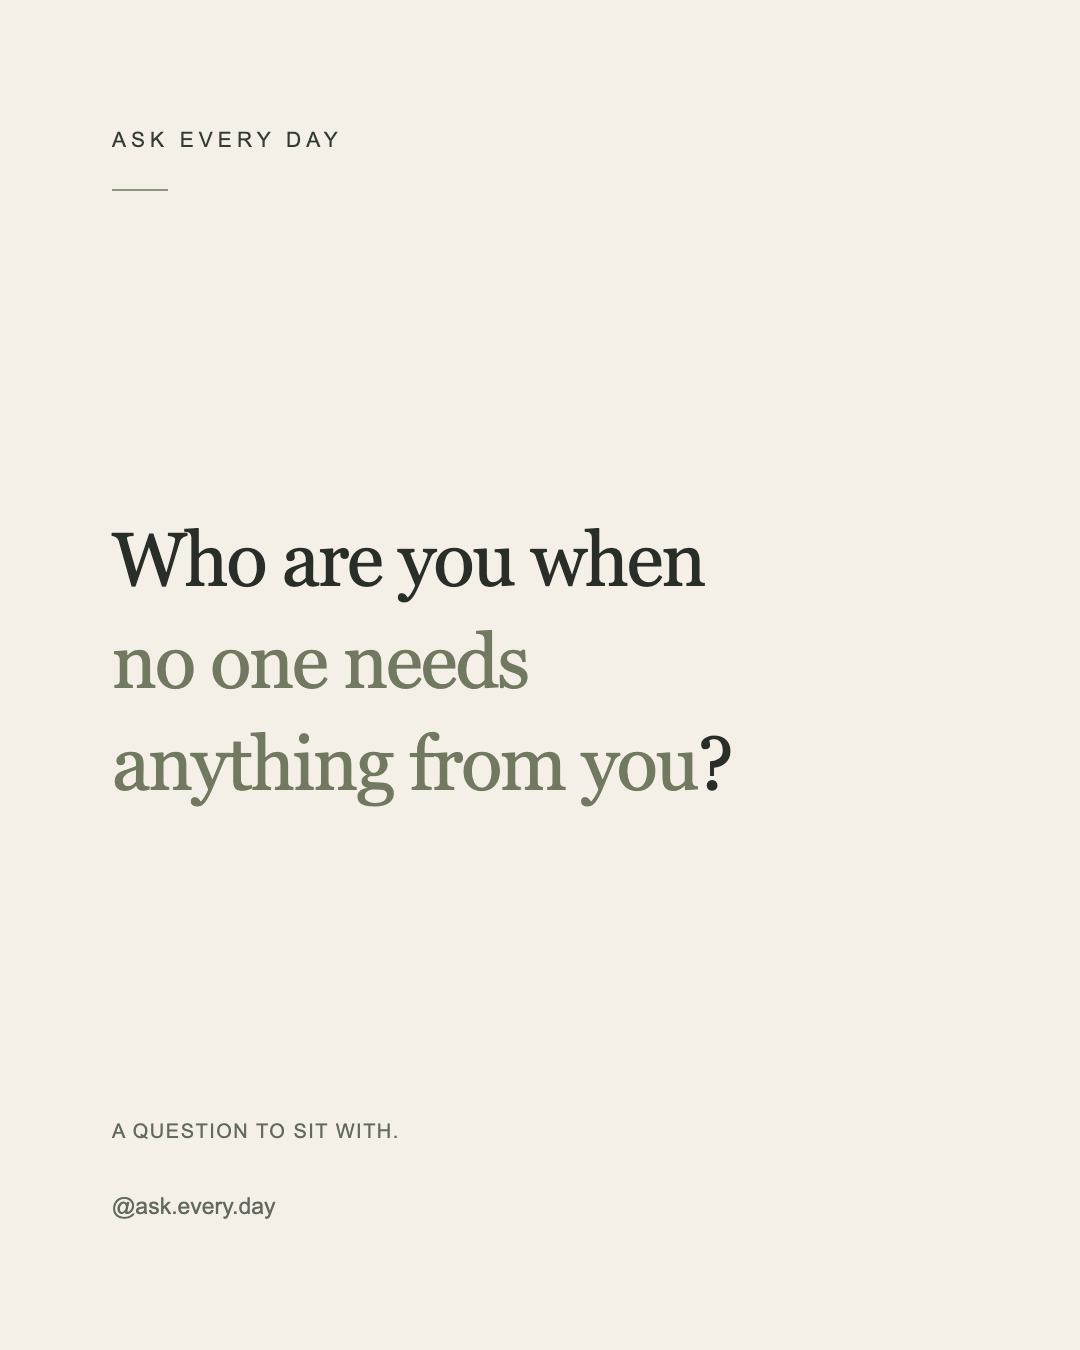
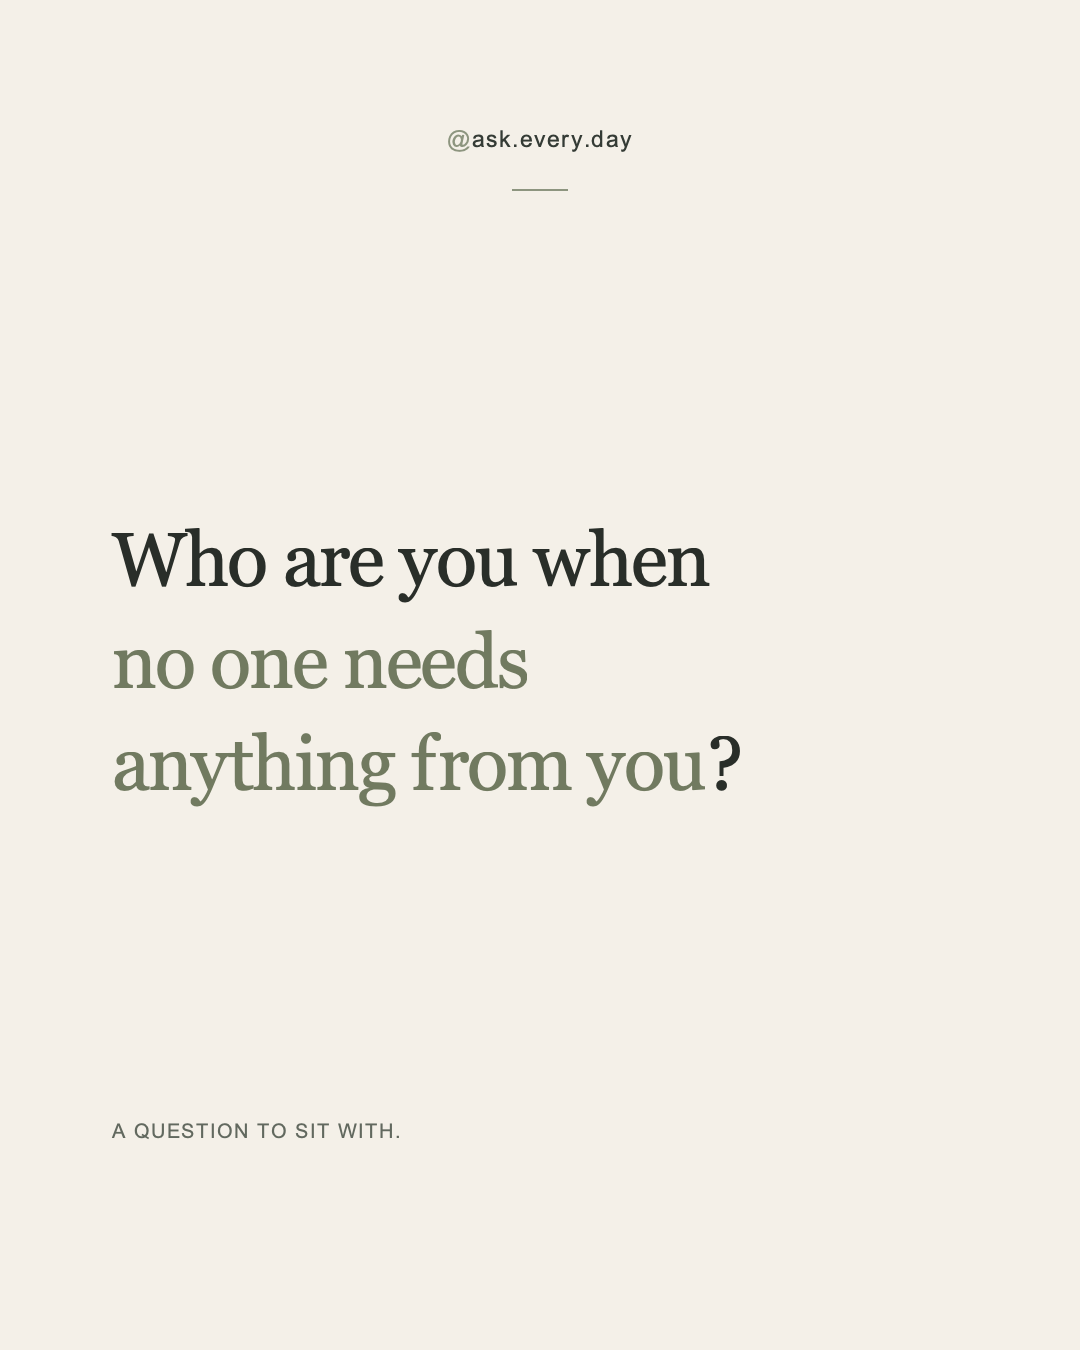
AED-042: Refine Classic header branding

diff --git a/src/ask_every_day/png_export.py b/src/ask_every_day/png_export.py
@@ -12,6 +12,36 @@ class PNGExportError(ValueError):
     """SVG cannot be converted, or the native Cairo runtime is unavailable."""
 
 
+def _center_classic_brand(root: ElementTree.Element, config: RendererConfig) -> bool:
+    """Work around CairoSVG #317 for the canonical two-colour header only."""
+    namespace = "{http://www.w3.org/2000/svg}"
+    brand = root.find(f".//{namespace}text[@id='classic-brand']")
+    if brand is None:
+        return False
+    from cairosvg.surface import cairo
+
+    # Measure with the same backend and scale as rasterization, never a guessed width.
+    surface = cairo.ImageSurface(cairo.FORMAT_ARGB32, 1, 1)
+    context = cairo.Context(surface)
+    scale = min(config.width / 1080, config.height / 1350)
+    context.scale(scale, scale)
+    group = root.find(namespace + "g")
+    assert group is not None
+    family = group.attrib["font-family"].split(",")[0].strip()
+    context.select_font_face(family, cairo.FONT_SLANT_NORMAL, cairo.FONT_WEIGHT_NORMAL)
+    context.set_font_size(float(brand.attrib["font-size"]))
+    text = "".join(brand.itertext())
+    bearing, _, width, _, _, _ = context.text_extents(text)
+    spacing = float(brand.attrib["letter-spacing"])
+    offset = bearing + width / 2 + (len(text) - 1) * spacing / 2
+    surface.finish()
+    brand.set("x", str(float(brand.attrib["x"]) - offset))
+    brand.set("text-anchor", "start")
+    # CairoSVG restarts letter spacing at each span; preserve the one boundary gap.
+    brand[1].set("dx", str(spacing))
+    return True
+
+
 def export_png(svg: str, config: RendererConfig) -> bytes:
     """Return PNG bytes at config dimensions, preserving the SVG background.
 
@@ -35,8 +65,13 @@ def export_png(svg: str, config: RendererConfig) -> bytes:
                 "CairoSVG could not load; install native Cairo and libffi "
                 "as described in docs/png-export.md"
             ) from error
+        source = (
+            ElementTree.tostring(root)
+            if _center_classic_brand(root, config)
+            else svg.encode("utf-8")
+        )
         result = cairosvg.svg2png(
-            bytestring=svg.encode("utf-8"),
+            bytestring=source,
             output_width=config.width,
             output_height=config.height,
             unsafe=False,

diff --git a/tests/test_renderer_regression.py b/tests/test_renderer_regression.py
@@ -101,12 +101,49 @@ def test_automatic_svg_structure(
     assert sum(bool(text) for text in highlights) == highlight_count
     assert "".join(highlights) == post.highlight_text
     assert "".join("".join(line.itertext()) for line in text_lines) == post.prompt
-    assert groups[0].findtext(SVG + "text") == "ASK EVERY DAY"
+    header = groups[0]
+    assert header.attrib == {
+        "fill": "#343B35",
+        "font-family": "Arial, Helvetica, sans-serif",
+    }
+    brand = header.find(SVG + "text")
+    assert brand is not None
+    assert "".join(brand.itertext()) == "@ask.every.day"
+    assert brand.attrib == {
+        "id": "classic-brand",
+        "x": "540",
+        "y": "147",
+        "text-anchor": "middle",
+        "font-size": "23",
+        "letter-spacing": "1.5",
+    }
+    assert [(span.text, span.get("fill")) for span in brand] == [
+        ("@", "#8D957F"),
+        ("ask.every.day", "#343B35"),
+    ]
+    underline = header.find(SVG + "path")
+    assert underline is not None
+    assert underline.attrib == {
+        "d": "M512 190 H568",
+        "stroke": "#8D957F",
+        "stroke-width": "2",
+    }
+    assert "".join(root.itertext()).count("@ask.every.day") == 1
+    assert root.findtext(SVG + "desc") == "Ask Every Day. A question to sit with."
+    assert groups[2].attrib == {
+        "font-family": "Arial, Helvetica, sans-serif",
+        "fill": "#62695F",
+    }
     footer = groups[2].findall(SVG + "text")
     assert [(text.get("x"), text.get("y"), text.text) for text in footer] == [
         ("112", "1138", "A QUESTION TO SIT WITH."),
-        ("112", "1214", "@ask.every.day"),
     ]
+    assert footer[0].attrib == {
+        "x": "112",
+        "y": "1138",
+        "font-size": "20",
+        "letter-spacing": "1.5",
+    }
 
 
 @pytest.mark.parametrize("post_id", [case[0] for case in CASES])

diff --git a/tests/test_png_export.py b/tests/test_png_export.py
@@ -115,3 +115,33 @@ def test_structured_success_log(caplog: pytest.LogCaptureFixture) -> None:
     assert record.__dict__["width"] == 1080
     assert record.__dict__["height"] == 1350
     assert "<svg" not in caplog.text
+
+
+@pytest.mark.parametrize("size", [(1080, 1350), (540, 675)])
+def test_centered_brand_raster_matches_unsplit_text_geometry(size):
+    from io import BytesIO
+    from xml.etree import ElementTree
+
+    import cairosvg
+    from PIL import Image, ImageChops
+
+    config = RendererConfig(width=size[0], height=size[1])
+    svg = render_svg(SAMPLE_POST, config)
+    root = ElementTree.fromstring(svg)
+    brand = root.find(".//{http://www.w3.org/2000/svg}text[@id='classic-brand']")
+    assert brand is not None
+    for span in brand:
+        span.set("fill", "#343B35")
+    actual = export_png(ElementTree.tostring(root, encoding="unicode"), config)
+    text = "".join(brand.itertext())
+    brand[:] = []
+    brand.text = text
+    # A single-colour, unsplit control uses CairoSVG's working native centering.
+    expected = cairosvg.svg2png(
+        bytestring=ElementTree.tostring(root),
+        output_width=size[0],
+        output_height=size[1],
+    )
+    assert isinstance(expected, bytes)
+    with Image.open(BytesIO(actual)) as a, Image.open(BytesIO(expected)) as b:
+        assert ImageChops.difference(a, b).getbbox() is None

diff --git a/tests/test_highlight.py b/tests/test_highlight.py
@@ -37,9 +37,10 @@ def test_exact_segments_and_offsets(prompt: str, highlight: str | None) -> None:
     )
     root = ElementTree.fromstring(svg)
     assert root.findtext(SVG + "title") == prompt
-    assert "".join(element.text or "" for element in root.iter(SVG + "tspan")) == (
-        highlight or ""
-    )
+    prompt_group = root.findall(SVG + "g")[1]
+    assert "".join(
+        element.text or "" for element in prompt_group.iter(SVG + "tspan")
+    ) == (highlight or "")
     span = highlight_span(prompt, highlight)
     lines = layout_prompt(prompt)
     segments = [segment_line(line, span) for line in lines]

diff --git a/tests/test_classic_prototype.py b/tests/test_classic_prototype.py
@@ -15,7 +15,8 @@ def test_reference_svg() -> None:
     assert root.attrib["viewBox"] == "0 0 1080 1350"
     assert SAMPLE_POST.prompt in "".join(root.itertext())
     assert "@ask.every.day" in "".join(root.itertext())
-    highlights = root.findall(".//{http://www.w3.org/2000/svg}tspan")
+    prompt_group = root.findall("{http://www.w3.org/2000/svg}g")[1]
+    highlights = prompt_group.findall(".//{http://www.w3.org/2000/svg}tspan")
     assert " ".join(span.text for span in highlights if span.text) == (
         SAMPLE_POST.highlight_text
     )

diff --git a/tests/test_renderer.py b/tests/test_renderer.py
@@ -22,7 +22,7 @@ def test_render_content_and_config_dimensions() -> None:
     assert root.attrib["height"] == "675"
     assert root.attrib["viewBox"] == "0 0 1080 1350"
     assert SAMPLE_POST.prompt in "".join(root.itertext())
-    assert "@ask.every.day" in "".join(root.itertext())
+    assert "".join(root.itertext()).count("@ask.every.day") == 1
 
 
 def test_deterministic_and_independent_of_working_directory(

diff --git a/docs/launch-review-findings.md b/docs/launch-review-findings.md
@@ -9,9 +9,10 @@ QA observations, **not owner sign-off** or a claim about audience performance.
 
 ## Blocking before first live post
 
-No concrete rendering/copy defect was found in this inspected set. Owner visual
-and copy acceptance is still pending. No production redesign or content rewrite
-is included, and no defect follow-up ticket is required from this inspection.
+The initial agent inspection found no concrete rendering/copy defect. During
+owner review on 18 October, the original top `ASK EVERY DAY` and duplicate bottom
+handle were judged redundant. The requested branding refinement is AED-042,
+recorded below. Owner visual/copy acceptance remains pending.
 
 ## Desirable iteration after launch
 
@@ -29,8 +30,8 @@ is included, and no defect follow-up ticket is required from this inspection.
 
 ## Acceptable as-is in this inspection
 
-- Consistent warm background, left alignment, serif scale, olive highlights,
-  top brand and bottom sign-off/handle across the set. Two-line AED-0030 has much
+- The initial pack had consistent warm background, left alignment, serif scale,
+  olive highlights and top brand/bottom sign-off/handle. Two-line AED-0030 has much
   more open space than six-line AED-0364, while the text remains vertically balanced.
 - Multi-line emphasis on AED-0236/0364 stays legible and restrained; punctuation
   remains attached. No clipping, overlapping brand/footer or obvious JPEG artefacts
@@ -45,6 +46,34 @@ is included, and no defect follow-up ticket is required from this inspection.
 
 Owner: open the generated gallery, inspect the JPEGs and copy as a set, and record
 approval or concrete requested changes. No owner approval has yet been recorded.
-AED-040 remains In Progress with Completed blank through PR CI, pending merge,
-integrated-main CI and owner acceptance. Any actual launch-blocking renderer or
-content defect needs a separate tracked ticket rather than a hidden redesign here.
+AED-040 remains Blocked on AED-042 and owner sign-off, with Completed blank.
+AED-042 remains In Progress through PR CI, pending merge, integrated-main CI and
+owner review of the regenerated pack. Neither ticket is complete from agent QA.
+
+## AED-042 branding refinement — 18 October 2026
+
+The owner selected one top attribution: centered `@ask.every.day` and a centered
+short underline, with a subtle sage `@` and stronger dark account name. The bottom
+handle is removed; `A QUESTION TO SIT WITH.` retains its position and styling.
+This is a branding change, not a prompt/template redesign.
+
+Implemented x=540/y=147 with one middle-anchored SVG text element, 23px
+Arial/Helvetica and 1.5px letter spacing. The spans use `#8D957F` and `#343B35`;
+the existing 56px/2px sage rule is centered from x=512 to 568 at y=190.
+The deliberate SVG/PNG specimen was refreshed. CairoSVG's anchored-span overlap
+required a narrow, measured header-only adaptation at PNG export; the canonical
+SVG remains centered and prompt rendering is untouched. See [renderer](renderer.md).
+
+Regenerated all 20 production JPEGs with `make launch-review` and inspected the
+actual gallery as a set, plus AED-0030, AED-0236 and AED-0364 at full resolution.
+The handle and rule appear centered and consistent. The `@` is noticeably lighter
+but readable; the account name remains subordinate to the question. Removing the
+duplicate handle leaves a quiet, intentional footer rather than an accidental gap.
+No clipping, prompt shift or obvious JPEG artefact was observed. Before/after
+comparisons for those three Posts confirm identical prompt SVG groups and exact
+PNG pixels across the prompt/footer-phrase region.
+
+No additional concrete launch-blocking visual issue was found in this regenerated
+set. Earlier short-final-line and caption preferences remain unchanged and outside
+this ticket. No new follow-up ticket is needed. These are agent observations;
+**owner sign-off on the new branding is still required**.

diff --git a/docs/classic-design.md b/docs/classic-design.md
@@ -7,15 +7,17 @@ through uv and writes only that ignored local output; it emits one JSON log even
 ![Classic reference](design/classic-reference.png)
 
 The committed [SVG reference](design/classic-reference.svg) and PNG above are
-intentional review artifacts for this spike. The PNG was captured at 1080×1350
-in Chrome on macOS and visually checked for clipping, spacing, and hierarchy.
+intentional review artifacts for this spike. AED-042 refreshes both for the
+owner's centered handle decision on 18 October 2026. The PNG uses the production
+CairoSVG exporter at 1080×1350 on macOS and is visually reviewed for branding,
+clipping, spacing and hierarchy; it replaces the original Chrome capture.
 They are not generated production assets. Regenerate the SVG after intentional
 changes to the design; refresh the visual reference after reviewing it.
 
 ## Visual decisions
 
 - Canvas: 1080×1350, warm paper `#F4F0E8`, no texture or decorative imagery.
-- Left edge: 112 px throughout; generous top/bottom whitespace keeps the question
+- Prompt/footer left edge: 112 px; generous top/bottom whitespace keeps the question
   dominant and gives a recognizable editorial rhythm.
 - Prompt: 76 px Georgia, 102 px baseline spacing, charcoal `#292E29`.
   Georgia falls back to Times New Roman and the system serif. No font files are
@@ -24,8 +26,10 @@ changes to the design; refresh the visual reference after reviewing it.
 - Highlight: muted sage `#717A60` text, retaining the serif weight and size.
   The exact phrase is highlighted across two manually chosen lines; punctuation
   remains charcoal. No boxes or highlighter-marker effects.
-- Identity: small tracked sans-serif heading at y=147, a short sage rule, and
-  understated footer/handle at y=1138/1214. Arial/Helvetica/system sans-serif.
+- Identity: one centered `@ask.every.day` at x=540/y=147, 23px sans-serif with
+  1.5px tracking. Muted sage `@` and stronger charcoal account name share a text
+  anchor; the 56px sage rule is centered at y=190. The footer phrase stays at
+  x=112/y=1138; no bottom handle. See [exact branding](renderer.md#classic-branding--aed-042).
 
 ## Prototype boundary
 

diff --git a/docs/renderer.md b/docs/renderer.md
@@ -29,6 +29,30 @@ Configuration width and height set the SVG viewport. Classic retains its
 scales it proportionally, letterboxing if a different aspect ratio is requested.
 This preserves typography and spacing without inventing responsive layouts.
 
+## Classic branding — AED-042
+
+The single attribution is a centered `@ask.every.day` at x=540, baseline y=147,
+with `text-anchor="middle"`. One Arial/Helvetica text element uses 23px type and
+1.5px letter spacing; adjacent spans give `@` the muted sage `#8D957F` and
+`ask.every.day` the stronger charcoal `#343B35`, without a heavier weight.
+The 56px underline runs from (512,190) to (568,190), with the existing sage stroke
+and 2px width. Centering follows the complete SVG text, not a guessed left offset.
+
+The footer contains only `A QUESTION TO SIT WITH.` at x=112/y=1138, retaining
+its 20px sans-serif type, 1.5px spacing and `#62695F` fill. The duplicate bottom
+handle is removed. Prompt layout/highlights, background, canvas and accessible
+description are unchanged. The deliberate SVG/PNG specimen in `docs/design/`
+reflects this canonical branding; prompt layout policy is unchanged.
+
+CairoSVG currently centers adjacent anchored spans independently
+([upstream issue 317](https://github.com/Kozea/CairoSVG/issues/317)). The PNG boundary
+therefore adapts only the `classic-brand` element in its in-memory conversion copy:
+the same Cairo backend/font/scale measures the complete handle, then positions the
+left-anchored runs with their boundary spacing preserved. The returned canonical
+SVG keeps x=540 and `text-anchor="middle"`; no font-width guess, prompt modification,
+dependency or general text-layout replacement is introduced. Raster regression
+compares this split handle with an unsplit centered control at full and half size.
+
 ## Automatic Classic layout — AED-011
 
 Without `lines`, `layout_prompt` automatically wraps the prompt using fixed,
